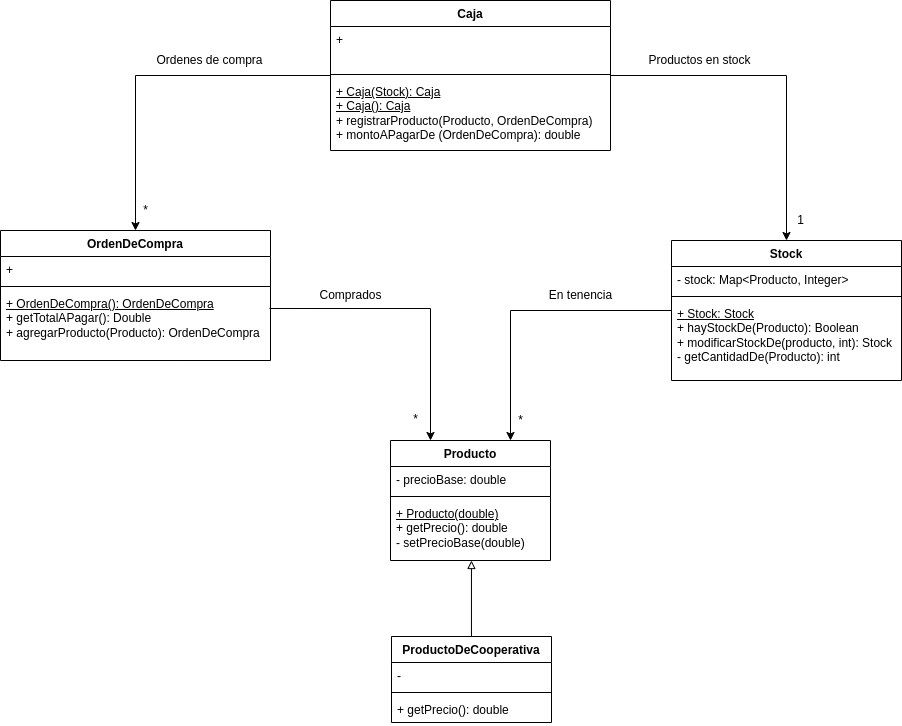
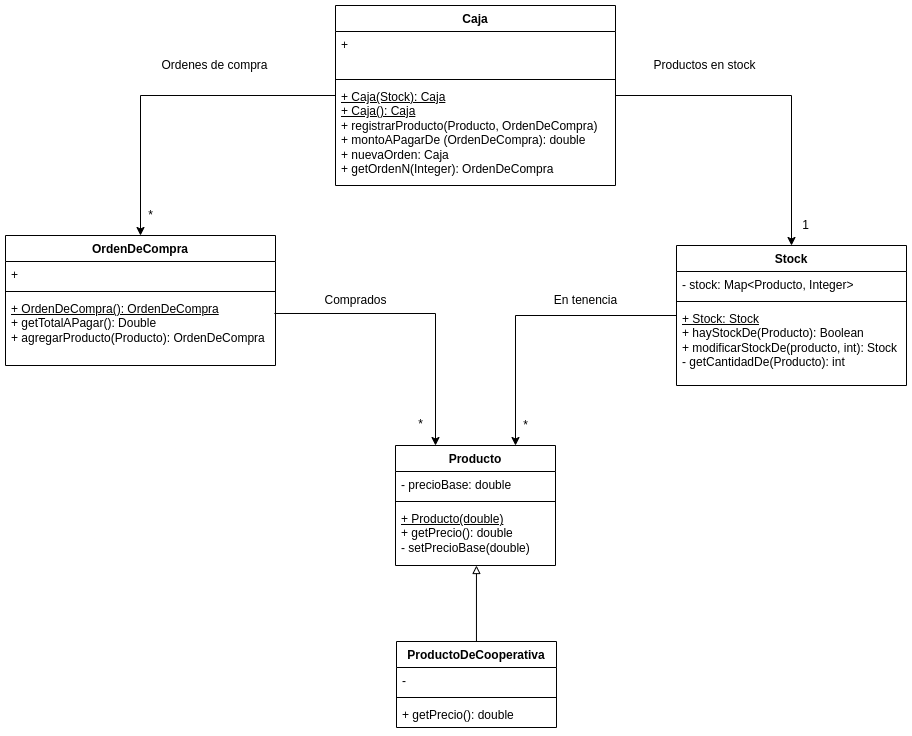
Guia 5 punto 2 implementado.

diff --git a/Guia 5/src/mercadoCentral/Caja.java b/Guia 5/src/mercadoCentral/Caja.java
@@ -10,9 +10,9 @@ public class Caja {
 	Stock stock;
 	/**
 	 * Una lista de todas las ordenes de compras
-	 * de clientes.
+	 * de clientes y una lista de las ordenes finalizadas.
 	 */
-	ArrayList <OrdenDeCompra> orden;
+	ArrayList <OrdenDeCompra> orden, ordenesFacturadas;
 	
 	/**
 	 * Constructor de Caja.
@@ -20,6 +20,7 @@ public class Caja {
 	 */
 	public Caja(Stock s) {
 		orden = new ArrayList <OrdenDeCompra>();
+		ordenesFacturadas = new ArrayList <OrdenDeCompra>();
 		stock = s;
 	}
 	
@@ -31,6 +32,14 @@ public class Caja {
 		orden = new ArrayList <OrdenDeCompra>();
 		stock = new Stock();
 	}
+
+	/*
+	 * Se debe considerar cambiar registrarImpuesto y registrarServicio
+	 * por registrarSinStock(NoStockable s, ordenDeCompra c) de haber mas
+	 * tipos que no requieran stock.
+	 * A su vez de haber mas tipos que requieran stock cambiar registrarProducto
+	 * por registrarConStock(Stockable s, ordenDeCompra c)
+	 */
 	
 	/**
 	 * Registra la compra de un producto si
@@ -40,11 +49,19 @@ public class Caja {
 	 */
 	public void registrarProducto(Producto p, OrdenDeCompra c) {
 		if(stock.hayStockDe(p)){
-			c.agregarProducto(p);
+			c.agregarUtilidad(p);
 			stock.modificarStockDe(p, -1);
 		}else {
 			System.out.println("No hay stock del producto.");
 		}
+	}
+	
+	public void registrarImpuesto(Impuesto i, OrdenDeCompra c) {
+		c.agregarUtilidad(i);
+	}
+	
+	public void registrarServicio(Servicio s, OrdenDeCompra c) {
+		c.agregarUtilidad(s);
 	}
 	
 	/**
@@ -55,6 +72,17 @@ public class Caja {
 	 */
 	public double montoAPagarDe (OrdenDeCompra c) {
 		return c.getTotalAPagar();
+	}
+	
+	/**
+	 * Se procesa la orden de compra dada
+	 * para completar el pago.
+	 * @param c La orden pagada.
+	 */
+	public void facturar (OrdenDeCompra c) {
+		c.ejecutarCompra();
+		ordenesFacturadas.add(c);
+		orden.remove(c);
 	}
 	
 	/**

diff --git a/Guia 5/test/mercadoCentral/TestOrdenDeCompra.java b/Guia 5/test/mercadoCentral/TestOrdenDeCompra.java
@@ -10,6 +10,9 @@ class TestOrdenDeCompra {
 	OrdenDeCompra ordenJose, ordenMiguel;
 	Producto esponja, pc, taza, billetera, celular;
 	ProductoDeCooperativa remera, adorno;
+	Servicio uber;
+	Impuesto alumbrado, iva;
+	Agencia municipio, afip;
 	
 	@BeforeEach
 	void setUp() throws Exception {
@@ -21,17 +24,22 @@ class TestOrdenDeCompra {
 		remera = new ProductoDeCooperativa(1200d);
 		adorno = new ProductoDeCooperativa(350d);
 		
+		uber = new Servicio(500d,5);
+		
+		alumbrado = new Impuesto(municipio, 1200d);
+		iva = new Impuesto(afip, 23500d);
+		
 		ordenJose = new OrdenDeCompra();
 		ordenMiguel = new OrdenDeCompra();
 		
-		ordenJose.agregarProducto(esponja).agregarProducto(remera).agregarProducto(adorno).agregarProducto(taza);
-		ordenMiguel.agregarProducto(pc).agregarProducto(celular).agregarProducto(pc).agregarProducto(billetera);
+		ordenJose.agregarUtilidad(esponja).agregarUtilidad(remera).agregarUtilidad(adorno).agregarUtilidad(taza).agregarUtilidad(uber).agregarUtilidad(alumbrado);
+		ordenMiguel.agregarUtilidad(pc).agregarUtilidad(celular).agregarUtilidad(pc).agregarUtilidad(billetera).agregarUtilidad(iva);
 	}
 
 	@Test
 	void test() {
-		assertEquals(ordenJose.getTotalAPagar(),1720d,0.2d);
-		assertEquals(ordenMiguel.getTotalAPagar(),330525d,0.2d);
+		assertEquals(ordenJose.getTotalAPagar(),5420d,0.2d);
+		assertEquals(ordenMiguel.getTotalAPagar(),354025d,0.2d);
 	}
 
 }

diff --git a/Guia 5/test/mercadoCentral/TestCaja.java b/Guia 5/test/mercadoCentral/TestCaja.java
@@ -11,6 +11,9 @@ class TestCaja {
 	OrdenDeCompra ordenJose, ordenMiguel;
 	Producto esponja, pc, taza;
 	ProductoDeCooperativa adorno;
+	Servicio uber;
+	Impuesto alumbrado, iva;
+	Agencia municipio, afip;
 	Caja caja;
 	
 	@BeforeEach
@@ -19,6 +22,11 @@ class TestCaja {
 		pc = new Producto(120000d);
 		taza = new Producto(320d);
 		adorno = new ProductoDeCooperativa(350d);
+		
+		uber = new Servicio(500d,5);
+		
+		alumbrado = new Impuesto(municipio, 1200d);
+		iva = new Impuesto(afip, 23500d);
 		
 		stock = new Stock();
 		caja = new Caja(stock);
@@ -37,11 +45,14 @@ class TestCaja {
 		ordenMiguel = caja.getOrdenN(1);
 		caja.registrarProducto(pc, ordenJose);
 		caja.registrarProducto(pc, ordenJose);
-		assertEquals(caja.montoAPagarDe(ordenJose), 120000);
+		caja.registrarImpuesto(alumbrado, ordenJose);
+		caja.registrarServicio(uber, ordenJose);
+		assertEquals(caja.montoAPagarDe(ordenJose), 123700);
 		caja.registrarProducto(esponja, ordenMiguel);
 		caja.registrarProducto(taza, ordenMiguel);
 		caja.registrarProducto(adorno, ordenMiguel);
-		assertEquals(caja.montoAPagarDe(ordenMiguel), 640);
+		caja.registrarImpuesto(iva, ordenMiguel);
+		assertEquals(caja.montoAPagarDe(ordenMiguel), 24140);
 		assertTrue(stock.hayStockDe(adorno));
 		assertFalse(stock.hayStockDe(taza));
 	}

diff --git a/Guia 5/src/mercadoCentral/OrdenDeCompra.java b/Guia 5/src/mercadoCentral/OrdenDeCompra.java
@@ -5,15 +5,15 @@ import java.util.ArrayList;
 public class OrdenDeCompra {
 
 	/**
-	 * Lista de los productos que se compraron.
+	 * Lista de los productos, impuestos y servicios que se compraron.
 	 */
-	ArrayList<Producto> productos;
+	ArrayList<Utilidad> utilidad;
 	
 	/**
 	 * Constructor de OrdenDeCompra.
 	 */
 	public OrdenDeCompra () {
-		productos = new ArrayList<Producto>();
+		utilidad = new ArrayList<Utilidad>();
 	}
 	
 	/**
@@ -21,19 +21,27 @@ public class OrdenDeCompra {
 	 * @return
 	 */
 	public double getTotalAPagar() {
-		return productos.stream()
-				.mapToDouble(Producto::getPrecio)
+		return utilidad.stream()
+				.mapToDouble(Utilidad::getPrecio)
 				.sum();
 	}
 	
 	/**
-	 * Agrega el producto dado a la orden
+	 * Agrega la utilidad dada a la orden
 	 * de compra.
-	 * @param p El producto a agregar.
+	 * @param p La utilidad a agregar.
 	 * @return
 	 */
-	public OrdenDeCompra agregarProducto(Producto p) {
-		productos.add(p);
+	public OrdenDeCompra agregarUtilidad(Utilidad p) {
+		utilidad.add(p);
 		return this;
 	}
+
+	/**
+	 * Notifica a cada utilidad de que se realizo el pago.
+	 */
+	public void ejecutarCompra() {
+		utilidad.stream().forEach(Utilidad::procesarPago);
+	}
+
 }

diff --git a/Guia 5/src/mercadoCentral/Servicio.java b/Guia 5/src/mercadoCentral/Servicio.java
@@ -1,0 +1,34 @@
+package mercadoCentral;
+
+public class Servicio implements Utilidad {
+
+	double costoPorUnidad;
+	int cantidadConsumida=0;
+	
+	public Servicio(double c) {
+		costoPorUnidad = c;
+	}
+	
+	public Servicio(double c, int i) {
+		costoPorUnidad = c;
+		cantidadConsumida = i;
+	}
+	
+	public void consumirN(int n) {
+		cantidadConsumida += n;
+	}
+	
+	@Override
+	/**
+	 * Devuelve el costo por el servicio dado.
+	 */
+	public double getPrecio() {
+		return costoPorUnidad * cantidadConsumida;
+	}
+
+	@Override
+	public void procesarPago() {
+		
+	}
+
+}

diff --git a/Guia 5/test/mercadoCentral/TestServicio.java b/Guia 5/test/mercadoCentral/TestServicio.java
@@ -1,0 +1,26 @@
+package mercadoCentral;
+
+import static org.junit.jupiter.api.Assertions.*;
+
+import org.junit.jupiter.api.BeforeEach;
+import org.junit.jupiter.api.Test;
+
+class TestServicio {
+
+	Servicio masaje, uber;
+	
+	@BeforeEach
+	void setUp() throws Exception {
+		masaje = new Servicio(1000d);
+		uber = new Servicio(500d,5);
+	}
+
+	@Test
+	void test() {
+		assertEquals(masaje.getPrecio(), 0d,0d);
+		masaje.consumirN(2);
+		assertEquals(masaje.getPrecio(), 2000d, 0d);
+		assertEquals(uber.getPrecio(), 2500d, 0d);
+	}
+
+}

diff --git a/Guia 5/test/mercadoCentral/TestImpuesto.java b/Guia 5/test/mercadoCentral/TestImpuesto.java
@@ -1,0 +1,25 @@
+package mercadoCentral;
+
+import static org.junit.jupiter.api.Assertions.*;
+
+import org.junit.jupiter.api.BeforeEach;
+import org.junit.jupiter.api.Test;
+
+class TestImpuesto {
+	
+	Impuesto alumbrado, iva;
+	Agencia municipio, afip;
+
+	@BeforeEach
+	void setUp() throws Exception {
+		alumbrado = new Impuesto(municipio, 1200d);
+		iva = new Impuesto(afip, 23500d);
+	}
+
+	@Test
+	void test() {
+		assertEquals(alumbrado.getPrecio(), 1200d, 0d);
+		assertEquals(iva.getPrecio(), 23500d, 0d);
+	}
+
+}

diff --git a/Guia 5/src/mercadoCentral/Impuesto.java b/Guia 5/src/mercadoCentral/Impuesto.java
@@ -1,0 +1,23 @@
+package mercadoCentral;
+
+public class Impuesto implements Utilidad, Factura {
+
+	double tasa;
+	Agencia agencia;
+	
+	public Impuesto (Agencia a, double t) {
+		tasa = t;
+		agencia = a;
+	}
+	
+	@Override
+	public double getPrecio() {
+		return tasa;
+	}
+
+	@Override
+	public void procesarPago() {
+		agencia.registrarPago(this);
+	}
+
+}

diff --git a/Guia 5/src/mercadoCentral/Producto.java b/Guia 5/src/mercadoCentral/Producto.java
@@ -1,6 +1,6 @@
 package mercadoCentral;
 
-public class Producto {
+public class Producto implements Utilidad {
 	
 	/**
 	 * Precio base del producto.
@@ -25,6 +25,11 @@ public class Producto {
 
 	private void setPrecioBase(double precioBase) {
 		this.precioBase = precioBase;
+	}
+
+	@Override
+	public void procesarPago() {
+		
 	}
 
 }

diff --git a/Guia 5/src/mercadoCentral/Utilidad.java b/Guia 5/src/mercadoCentral/Utilidad.java
@@ -1,0 +1,17 @@
+package mercadoCentral;
+
+public interface Utilidad {
+
+	/**
+	 * Obtiene el precio de la utilidad.
+	 * @return el precio a pagar.
+	 */
+	public double getPrecio();
+	
+	/**
+	 * Describe el comportamiento de la
+	 * utilidad cuando se confirma la compra.
+	 */
+	public void procesarPago();
+
+}

diff --git a/Guia 5/src/mercadoCentral/Agencia.java b/Guia 5/src/mercadoCentral/Agencia.java
@@ -1,0 +1,5 @@
+package mercadoCentral;
+
+public interface Agencia {
+	public void registrarPago(Factura factura);
+}

diff --git a/Guia 5/src/mercadoCentral/Factura.java b/Guia 5/src/mercadoCentral/Factura.java
@@ -1,0 +1,5 @@
+package mercadoCentral;
+
+public interface Factura {
+
+}
